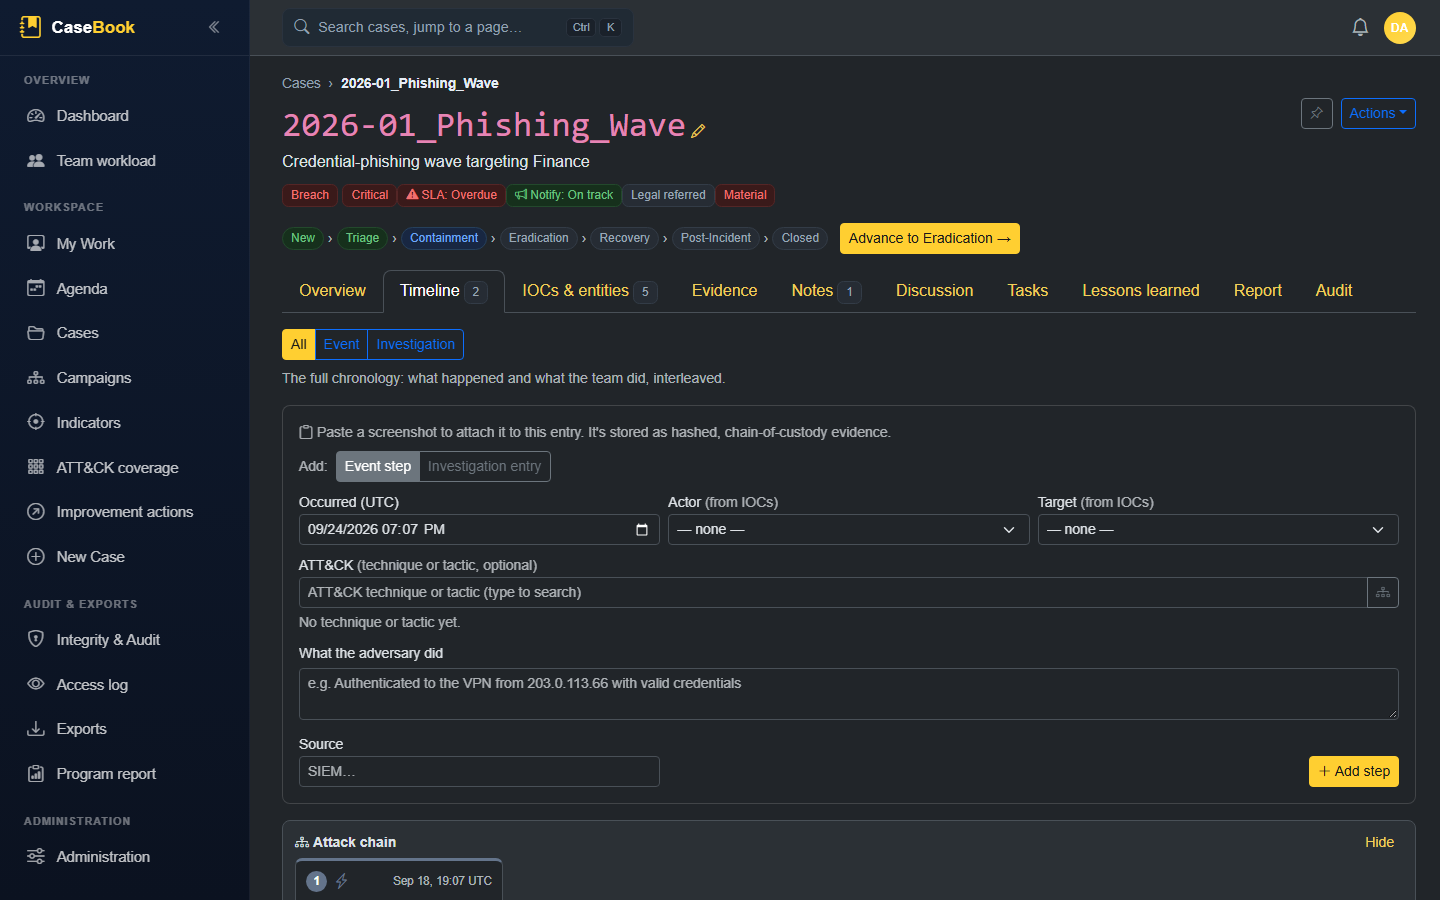
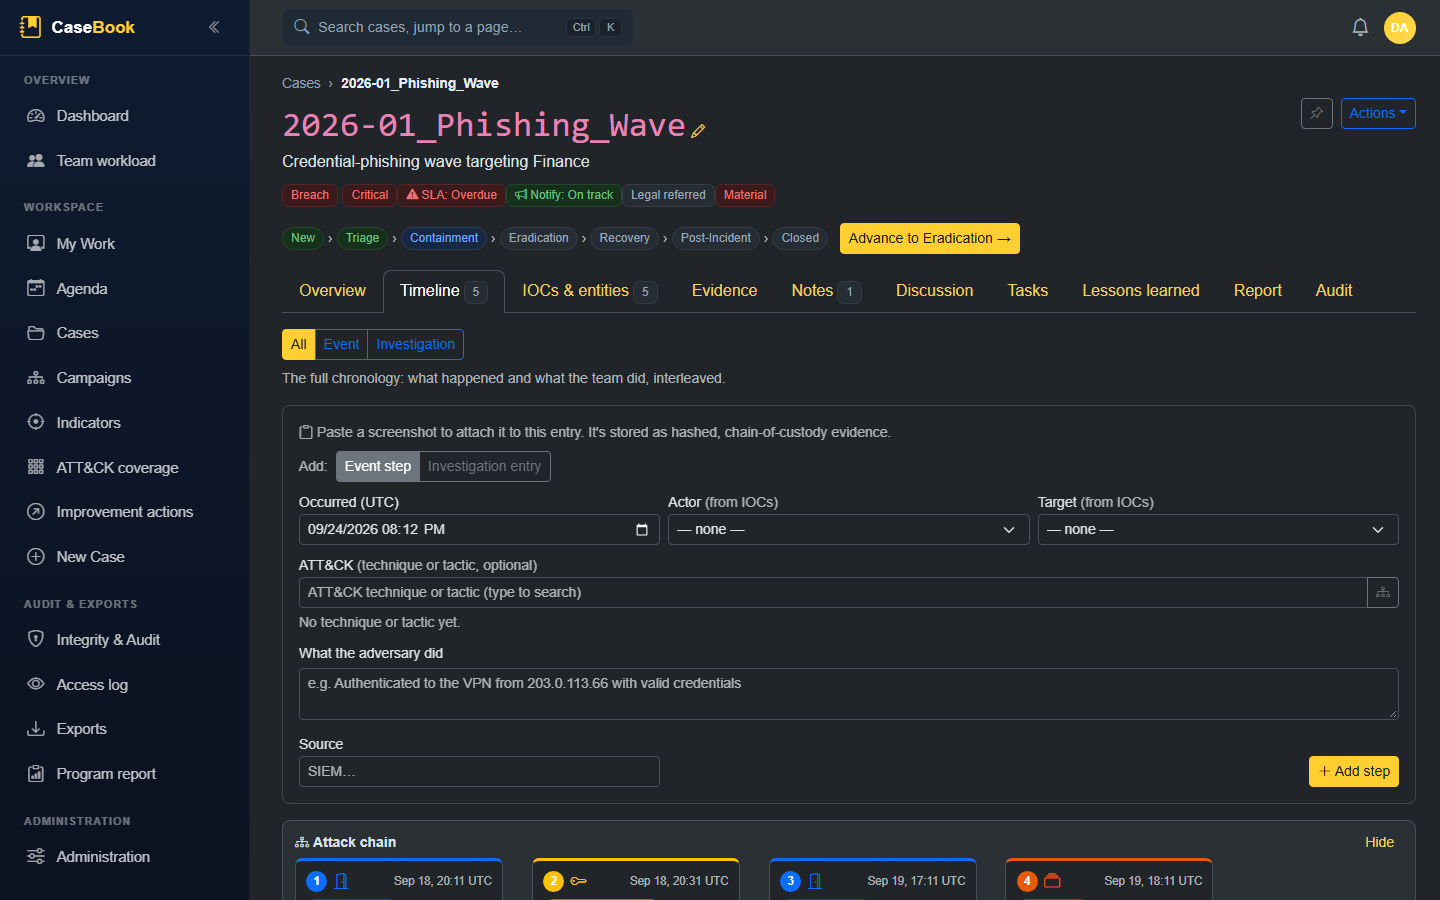
docs: README reporting section and screenshots for PROD-44 to PROD-47 (H-10)
Describes the drawn attack chain and entity graph, the IOC section, defanging, TLP
markings and Word templates; recaptures the report and timeline screenshots
against freshly seeded demo data.

Changed region(s): [[0.5312, 0.9333, 0.8438, 1.0], [0.375, 0.9333, 0.5, 1.0], [0.1875, 0.9333, 0.3438, 1.0]]

diff --git a/README.md b/README.md
@@ -110,7 +110,12 @@ bridges two campaigns for someone who can't see it.
 
 ### Reporting — Word draft &amp; locked PDF
 Generate an editable **Word** working draft and a finalized, **locked PDF** carrying an embedded
-**SHA-256 content hash** — the version, final flag, hash, and author are recorded per artifact.
+**SHA-256 content hash** — the version, final flag, hash, and author are recorded per artifact. Reports
+**draw the attack chain** across ATT&amp;CK tactic lanes and the **entity relationship graph**, list
+**indicators of compromise** apart from everything examined, **defang** indicators so a forwarded report
+can't be clicked through, and carry a **TLP 2.0** marking on every page. Admins can give a report profile
+their own **Word template** with `{{…}}` fields; uploads with macros, embedded objects or externally
+loaded content are refused.
 
 ![Reporting](docs/screenshots/report.png)
 
